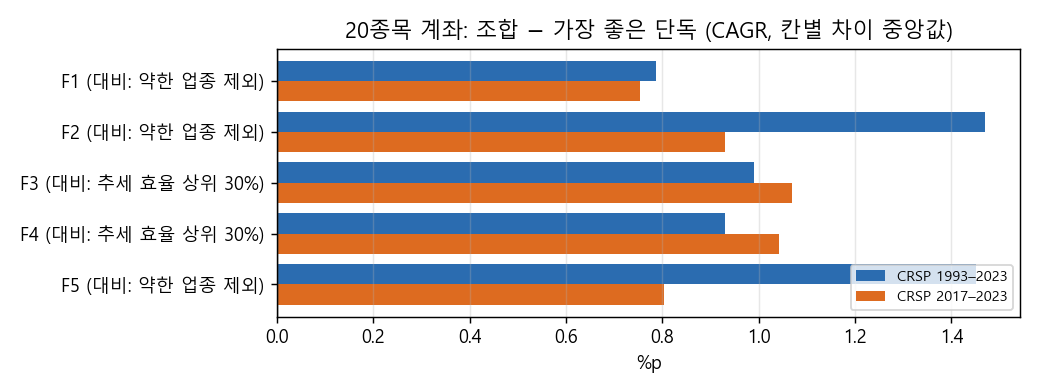
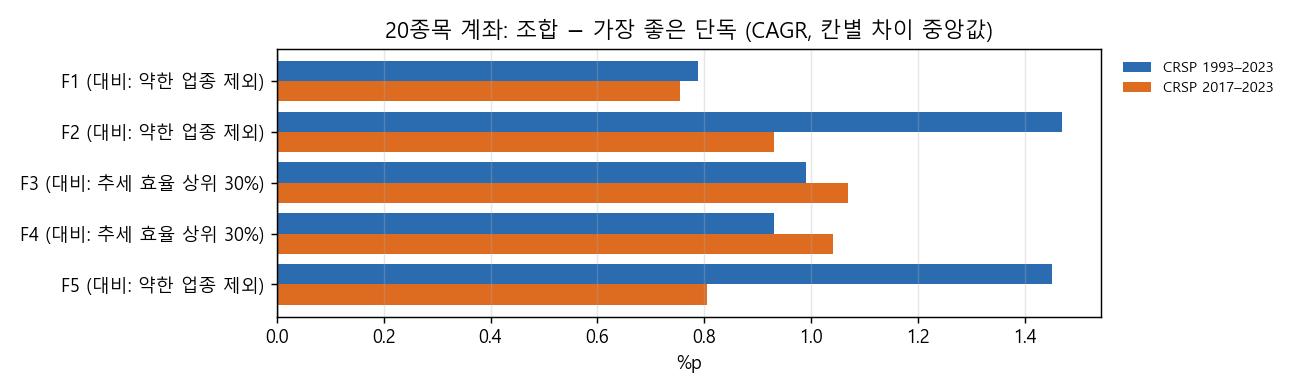
연구실: Stage F 그림 정리 — 기준선, 범례 위치, 메모에 그림 넣기
- 나아진 칸 비율 그림에 기준 60% 점선, 범례를 그림 밖으로(막대 가림 해소)
- 조합 이름을 그림용 짧은 이름으로, 결과 메모 '그림' 절에 그림 10장과 설명
- 결과·판정 변경 없음(커밋된 집계표에서 다시 그림)

diff --git a/lab/figures.py b/lab/figures.py
@@ -43,22 +43,34 @@ def _save(fig, path: Path) -> Path:
 
 
 def paired_bars(labels: list[str], series: dict[str, np.ndarray], title: str, xlabel: str, path: Path,
-                pct: bool = True) -> Path:
-    """Horizontal bars, one group per label and one bar per series (e.g. per sample)."""
+                pct: bool = True, ref: float | None = None, ref_label: str = "", legend_out: bool = False) -> Path:
+    """Horizontal bars, one group per label and one bar per series (e.g. per sample). `ref` (in the
+    same units as the values, before the x100 of `pct`) draws a dashed reference line labelled
+    `ref_label`; `legend_out` puts the legend right of the plot so it never covers a bar."""
     plt = _plt()
     n, k = len(labels), len(series)
-    fig, ax = plt.subplots(figsize=(8, max(3.0, 0.32 * n + 1.2)))
+    fig, ax = plt.subplots(figsize=(10 if legend_out else 8, max(3.0, 0.32 * n + 1.2)))
     h = 0.8 / max(k, 1)
     y = np.arange(n)
     for j, (name, vals) in enumerate(series.items()):
         v = np.asarray(vals, dtype=float) * (100 if pct else 1)
         ax.barh(y + (j - (k - 1) / 2) * h, v, height=h, label=name, color=COLORS[j % len(COLORS)])
     ax.axvline(0, color="#444", lw=0.8)
+    if ref is not None:
+        r = ref * (100 if pct else 1)
+        ax.axvline(r, color="#c0392b", lw=1.2, ls="--")
+        if ref_label:
+            ax.annotate(ref_label, (r, 0.0), xycoords=("data", "axes fraction"), xytext=(3, 3), textcoords="offset points",
+                        ha="left", va="bottom", fontsize=8, color="#c0392b",
+                        bbox=dict(boxstyle="round,pad=0.15", fc="white", ec="none", alpha=0.85))
     ax.set_yticks(y, labels)
     ax.invert_yaxis()
     ax.set_xlabel(xlabel)
     ax.set_title(title)
-    ax.legend(loc="lower right", fontsize=8)
+    if legend_out:
+        ax.legend(loc="upper left", bbox_to_anchor=(1.01, 1.0), fontsize=8, frameon=False)
+    else:
+        ax.legend(loc="lower right", fontsize=8)
     ax.grid(axis="x", alpha=0.3)
     return _save(fig, path)
 

diff --git a/lab/combo_f_study.py b/lab/combo_f_study.py
@@ -52,8 +52,13 @@ def names() -> list[str]:
     return ["none"] + SINGLES + list(COMBOS)
 
 
+TINY = {"x_weak_industry": "업종", "x_overextended": "장기 과열", "x_ivol": "고유 변동성", "x_volatility": "변동성",
+        "s_efficiency": "추세 효율"}
+
+
 def labels() -> dict[str, str]:
-    return {k: f"{k}: " + " + ".join(SHORT[s] for s in v) for k, v in COMBOS.items()}
+    """Short names for figures, e.g. 'F3: 업종·장기 과열·추세 효율' (full definitions in the memo)."""
+    return {k: f"{k}: " + "·".join(TINY[s] for s in v) for k, v in COMBOS.items()}
 
 
 def _activate() -> None:
@@ -186,8 +191,10 @@ def write_figures(out: Path, st: pd.DataFrame) -> list[Path]:
         for stat, t2, u2 in (("median_diff", title, unit), ("share_better", title.split(":")[0] + ": 조합이 나아진 칸 비율 (기준 60%)", "나아진 칸 비율 (%)")):
             m = g.pivot(index="combo", columns="sample", values=stat).reindex(list(COMBOS))
             labs = [f"{k} (대비: {SHORT[g[g['combo'] == k]['best_single'].iloc[0]]})" for k in COMBOS]
+            share = stat == "share_better"
             made.append(figures.paired_bars(labs, {SAMPLES[s][2]: m[s].to_numpy(dtype=float) for s in SAMPLES},
-                                            t2, u2, out / "figures" / f"stacking_{view}_{stat}.png", pct=True))
+                                            t2, u2, out / "figures" / f"stacking_{view}_{stat}.png", pct=True, legend_out=True,
+                                            ref=se.HELP_SHARE if share else None, ref_label="기준 60%" if share else ""))
     return made
 
 

diff --git a/lab/screen_e_study.py b/lab/screen_e_study.py
@@ -346,8 +346,10 @@ def write_figures(out: Path, scr: pd.DataFrame, reg: pd.DataFrame) -> list[Path]
         if stat not in scr:
             continue
         m = scr.pivot(index="screen", columns="sample", values=stat).reindex(order)
+        share = stat.startswith("share_better")
         made.append(figures.paired_bars([label(n) for n in order], {names[s]: m[s].to_numpy(dtype=float) for s in SAMPLES},
-                                        title, unit, d / f"{stat}.png", pct=pct))
+                                        title, unit, d / f"{stat}.png", pct=pct, legend_out=True,
+                                        ref=HELP_SHARE if share else None, ref_label="기준 60%" if share else ""))
     return made
 
 

diff --git a/docs/research/lab/2026-10-28_stage_f_results.md b/docs/research/lab/2026-10-28_stage_f_results.md
@@ -12,10 +12,39 @@ Stage E에서 미리 정한 기준을 통과한 스크린(약한 업종 제외, 
 
 ## 그림
 
-모두 `docs/research/lab/figures/stagec_combos_daily3000/`에 있습니다.
-- `stacking_unlimited_share_better.png`, `stacking_account_share_better.png`: 조합이 가장 좋은 단독보다 나아진 칸 비율(기준 60%)
-- `stacking_unlimited_median_diff.png`, `stacking_account_median_diff.png`: 조합 − 가장 좋은 단독, 칸별 차이 중앙값
-- `share_better_expectancy.png`, `share_better_cagr.png`, `median_d_cagr.png`, `pass_cells.png`, `cal_median_cagr.png`: Stage E와 같은 그림(스크린 없음 대비), 조합과 단독을 함께 표시
+주 판정(조합 vs 가장 좋은 단독, 같은 칸 비교)입니다. 각 조합의 괄호 안이 비교한 단독 스크린입니다. 빨간 점선이 기준 60%이고, 두 기간 막대가 모두 그 오른쪽에 있고 차이 중앙값이 0보다 커야 통과입니다.
+
+![20종목: 조합이 가장 좋은 단독보다 나아진 칸 비율](figures/stagec_combos_daily3000/stacking_account_share_better.png)
+20종목 계좌에서 CAGR이 단독보다 나아진 칸 비율입니다. F1과 F3만 2017–2023에서도 60%를 넘었습니다.
+
+![20종목: 조합 − 가장 좋은 단독, CAGR 차이 중앙값](figures/stagec_combos_daily3000/stacking_account_median_diff.png)
+20종목 계좌의 CAGR 차이 중앙값입니다. 모든 조합이 0보다 크지만, 나아진 칸 비율 기준을 넘은 것은 F1·F3입니다.
+
+![제한 없음: 조합이 가장 좋은 단독보다 나아진 칸 비율](figures/stagec_combos_daily3000/stacking_unlimited_share_better.png)
+종목 수 제한 없음에서 신호당 수익이 단독보다 나아진 칸 비율입니다. 2017–2023에서 60%를 넘은 것은 F3뿐입니다.
+
+![제한 없음: 조합 − 가장 좋은 단독, 신호당 수익 차이 중앙값](figures/stagec_combos_daily3000/stacking_unlimited_median_diff.png)
+종목 수 제한 없음의 신호당 수익 차이 중앙값(%p)입니다. F5는 2017–2023에서 0보다 조금 작습니다.
+
+아래는 Stage E와 같은 '스크린 없음 대비' 그림입니다. 단독 5개와 조합 5개를 함께 표시했습니다.
+
+![제한 없음: 신호당 수익이 나아진 칸 비율](figures/stagec_combos_daily3000/share_better_expectancy.png)
+종목 수 제한 없음, 스크린 없음보다 신호당 수익이 나아진 칸 비율입니다. 조합은 모두 두 기간에서 60%를 넘었습니다.
+
+![20종목: CAGR이 나아진 칸 비율](figures/stagec_combos_daily3000/share_better_cagr.png)
+20종목 계좌, 스크린 없음보다 CAGR이 나아진 칸 비율입니다.
+
+![20종목: 스크린 없음 대비 CAGR 차이 중앙값](figures/stagec_combos_daily3000/median_d_cagr.png)
+20종목 계좌의 CAGR 차이 중앙값입니다. 조합은 +1.4 – +2.5%p로 단독(+0.5 – +1.5%p)보다 큽니다.
+
+![제한 없음: 스크린 없음 대비 신호당 수익 차이 중앙값](figures/stagec_combos_daily3000/median_d_expectancy.png)
+종목 수 제한 없음의 신호당 수익 차이 중앙값입니다.
+
+![20종목: 스크린별 통과 칸 수](figures/stagec_combos_daily3000/pass_cells.png)
+20종목 계좌의 통과 칸 수(729칸 중, CAGR > SPY · |MDD| < |SPY MDD| · 거래 30회 이상)입니다.
+
+![제한 없음: 달력 시간 포트폴리오 CAGR 중앙값](figures/stagec_combos_daily3000/cal_median_cagr.png)
+종목 수 제한 없음을 달력 시간 포트폴리오(그날 열린 포지션 전부 같은 비중)로 본 CAGR 중앙값(대표 칸 81개)입니다.
 
 ## 무엇을 시험했나
 
